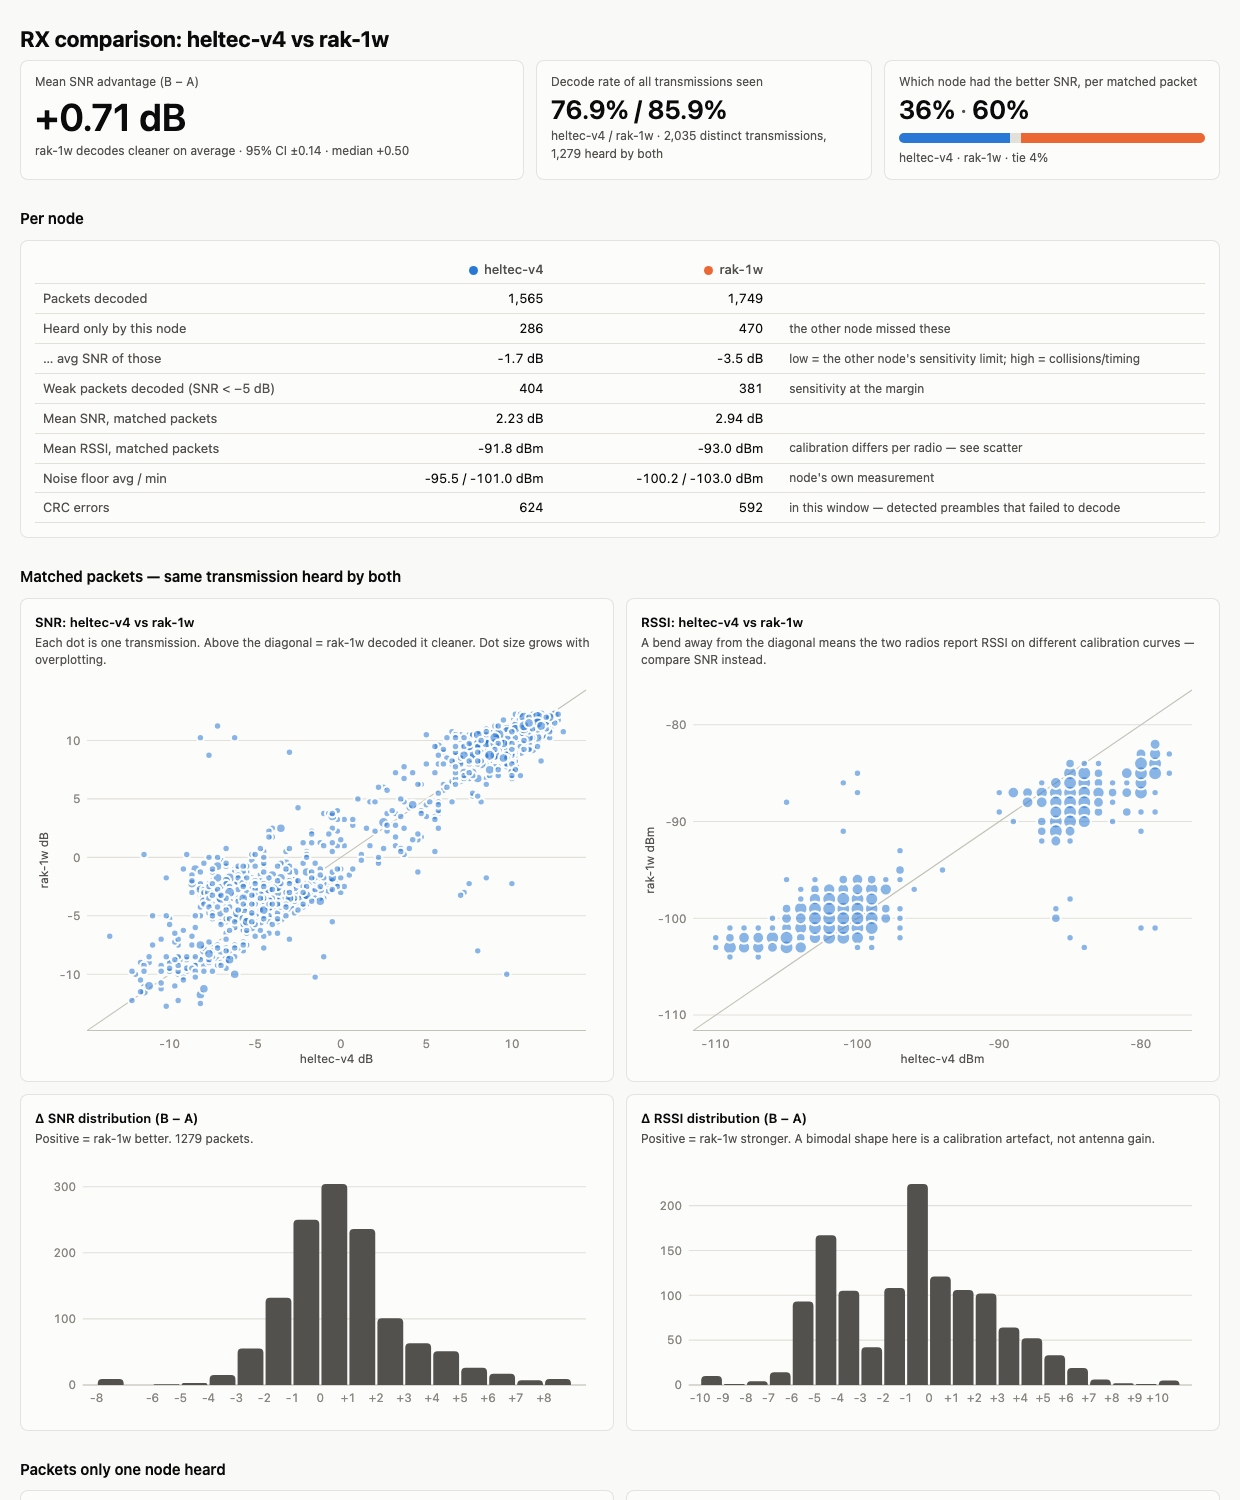
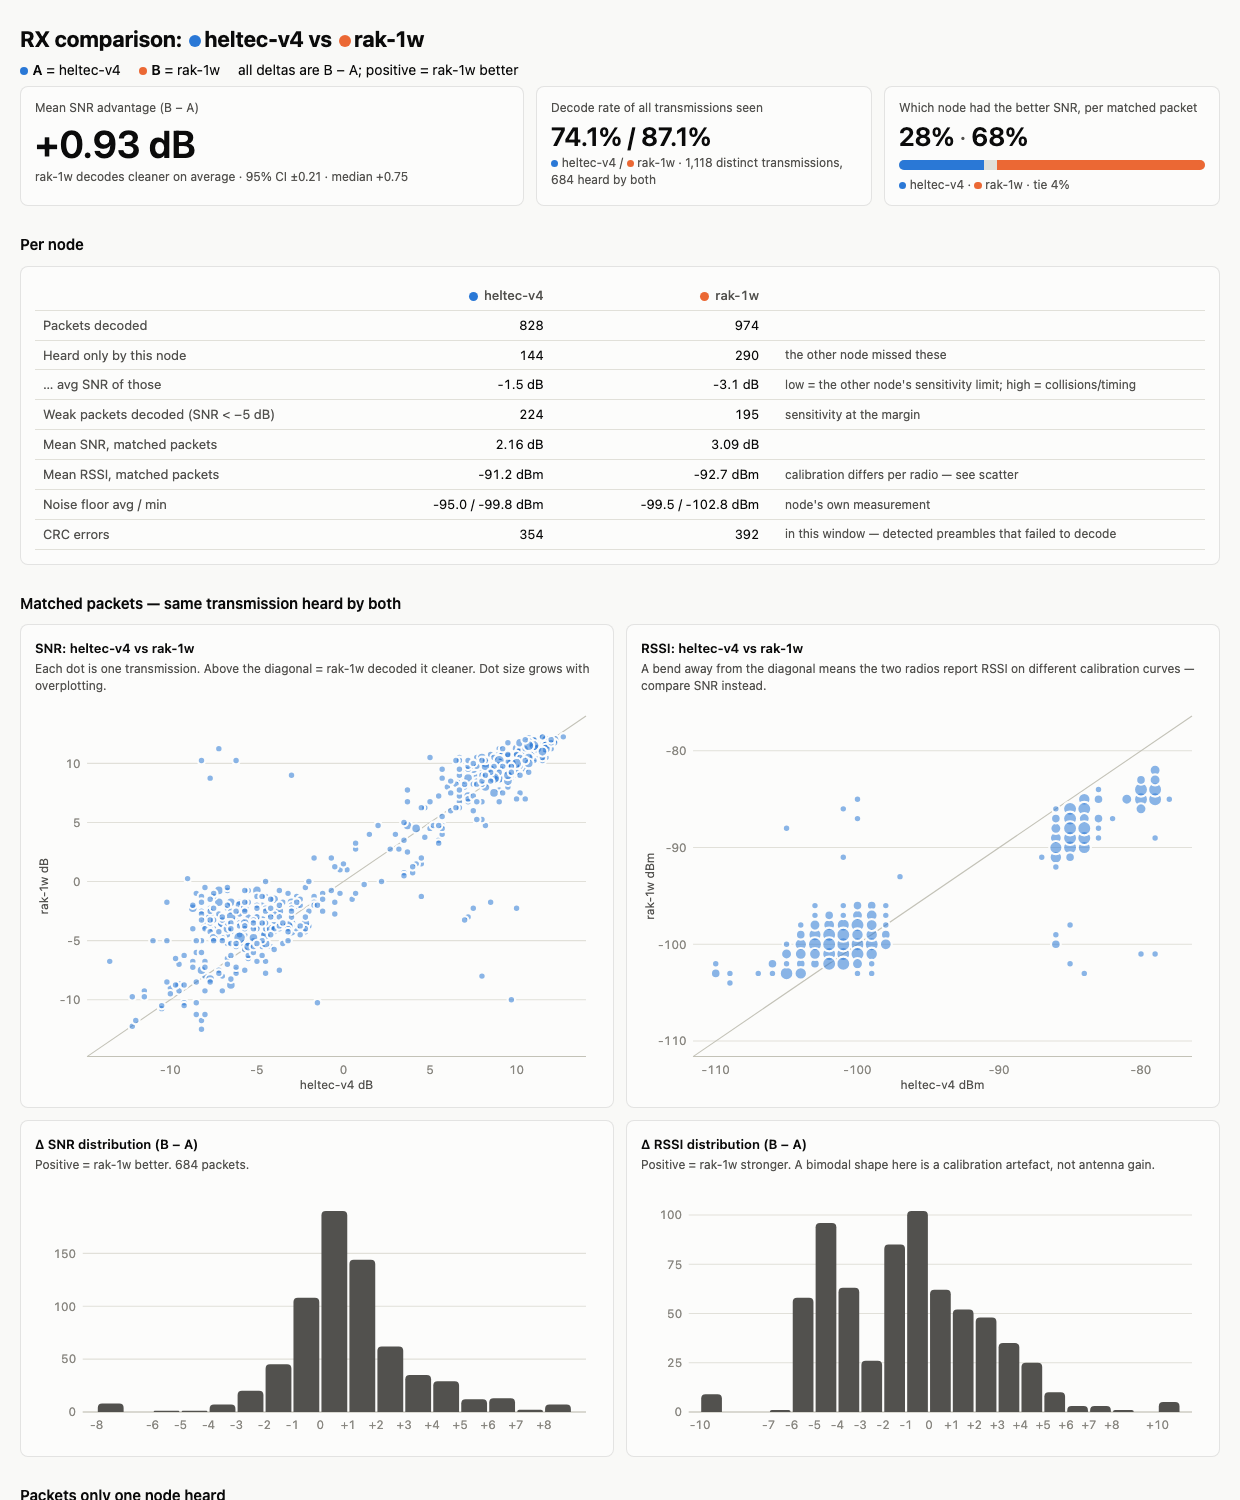
Colour-code node names in the title, intro and headline tiles
Claude-Session: https://claude.ai/code/session_01PK6k7cjxvt2Sxy1dmL7aHq

diff --git a/rxcompare.py b/rxcompare.py
@@ -275,7 +275,9 @@ CSS = """
 main{max-width:1200px;margin:0 auto}h1{font-size:22px;margin:0 0 4px}h2{font-size:15px;margin:28px 0 10px;font-weight:600}
 .sub{color:var(--ink2);margin:0 0 20px;overflow-wrap:anywhere}.sub code{font-size:12px}
 .nav{display:flex;flex-wrap:wrap;gap:6px;margin:0 0 14px}.nav a{color:var(--ink2);text-decoration:none;border:1px solid var(--border);border-radius:6px;padding:3px 10px;font-size:13px}.nav a.on{color:var(--ink);border-color:var(--ink2);font-weight:600}
-.legend{display:flex;gap:18px;color:var(--ink2);font-size:13px;margin:0 0 12px}.legend i{display:inline-block;width:10px;height:10px;border-radius:50%;margin-right:6px;vertical-align:-1px}
+.legend{display:flex;flex-wrap:wrap;gap:6px 18px;color:var(--ink2);font-size:13px;margin:0 0 12px}.legend i{display:inline-block;width:10px;height:10px;border-radius:50%;margin-right:6px;vertical-align:-1px}
+.sw{display:inline-block;width:.6em;height:.6em;border-radius:50%;margin-right:.3em;vertical-align:baseline}.sw.a{background:var(--a)}.sw.b{background:var(--b)}
+h1 .sw{width:.55em;height:.55em;margin:0 .15em 0 .1em}.legend.intro{margin:4px 0 6px;font-size:14px;color:var(--ink)}.legend.intro b{font-weight:600}
 
 .tile{background:var(--surface);border:1px solid var(--border);border-radius:8px;padding:12px 14px}
 .tile .l{color:var(--ink2);font-size:12px}.tile .v{font-size:26px;font-weight:600;line-height:1.2;margin:4px 0 2px}
@@ -549,10 +551,10 @@ def render_html(R, nav=""):
         tile("Mean SNR advantage (B − A)", f"{md:+.2f} dB" if npair else "–",
              f"{esc(lead)} decodes cleaner on average · 95% CI ±{ci:.2f} · median {med(dsnr):+.2f}" if npair else "", hero=True),
         tile("Decode rate of all transmissions seen", f"{100*rate_a:.1f}% / {100*rate_b:.1f}%" if union else "–",
-             f"{esc(na)} / {esc(nb)} · {union:,} distinct transmissions, {npair:,} heard by both"),
+             f"<span class=\"sw a\"></span>{esc(na)} / <span class=\"sw b\"></span>{esc(nb)} · {union:,} distinct transmissions, {npair:,} heard by both"),
         tile("Which node had the better SNR, per matched packet",
              f"{100*better_a/npair:.0f}% <span style=\"color:var(--ink2);font-weight:400\">·</span> {100*better_b/npair:.0f}%" if npair else "–",
-             f"{split}{esc(na)} · {esc(nb)} · tie {100*ties/npair:.0f}%" if npair else ""),
+             f"{split}<span class=\"sw a\"></span>{esc(na)} · <span class=\"sw b\"></span>{esc(nb)} · tie {100*ties/npair:.0f}%" if npair else ""),
     ]
     def row(k, va, vb, tip=""):
         return f'<tr><td class="k">{k}</td><td>{va}</td><td>{vb}</td><td class="k">{tip}</td></tr>'
@@ -631,7 +633,8 @@ def render_html(R, nav=""):
 
     doc = f"""<!doctype html><html lang="en"><head><meta charset="utf-8"><meta name="viewport" content="width=device-width,initial-scale=1">
 <title>RX compare · {esc(na)} vs {esc(nb)}</title><style>{CSS}</style></head><body><main>
-<h1>RX comparison: {esc(na)} vs {esc(nb)}</h1>
+<h1>RX comparison: <span class="sw a"></span>{esc(na)} vs <span class="sw b"></span>{esc(nb)}</h1>
+<p class="legend intro"><span><span class="sw a"></span><b>A</b> = {esc(na)}</span><span><span class="sw b"></span><b>B</b> = {esc(nb)}</span><span>all deltas are B − A; positive = {esc(nb)} better</span></p>
 <p class="sub">{esc(win)} · generated {time.strftime('%Y-%m-%d %H:%M:%S')} · packets joined by <code>(packet_hash, path_hash)</code> within {MATCH_WINDOW_S:g} s</p>
 {nav}
 <div class="top">{"".join(tiles)}</div>
